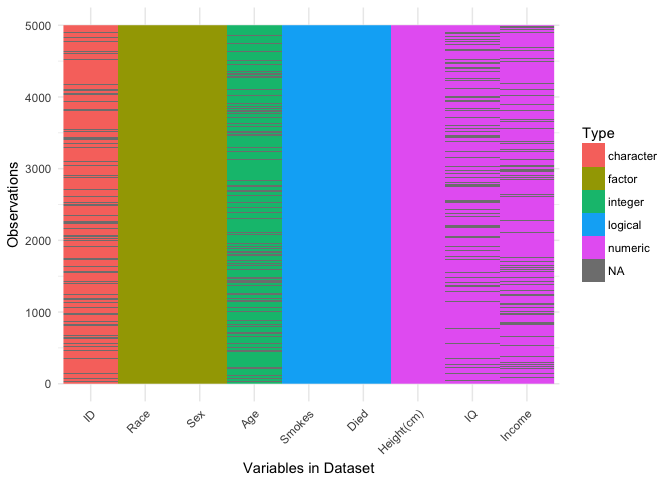
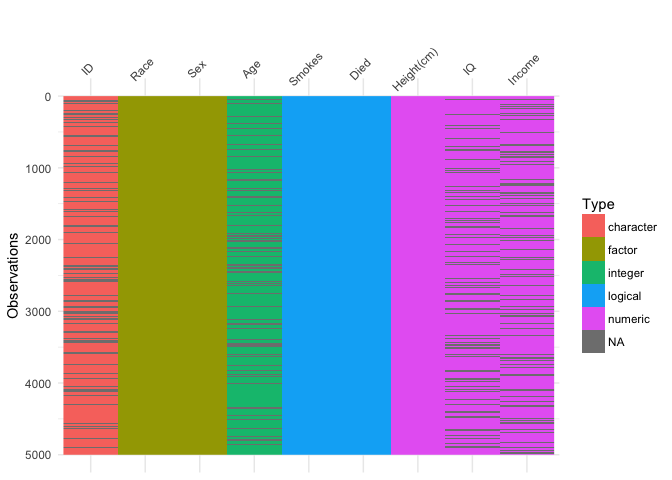
minor changes to paper - add a sentence to vis_dat and vis_miss, and change style slightly to be more appropriate for a journal.

diff --git a/paper/paper.md b/paper/paper.md
@@ -1,32 +1,9 @@
----
-title: 'visdat: Visualising whole data frames'
-tags:
-  - visualisation
-  - R
-  - exporatory data analysis
-authors:
- - name: Nicholas Tierney
-   orcid: 0000-0003-1460-8722
-   affiliation: 1
-affiliations:
- - name: Queensland University of Technology
-   index: 1
-date: 09 January 2017
-bibliography: paper.bib
----
-
 # visdat: Visualising whole data frames
-09 January 2017  
+01 August 2017  
 
 # Summary
 
-As described by Hadley Wickham [@wickham2016], there are 6 phases of data science:
-
-![Process of Data Science](http://r4ds.had.co.nz/diagrams/data-science.png)
-
-You can get insight into your data by modelling, visualising, and transforming, which Wickham describes as "Understanding" or "knowledge generation". There is some overlap here, as in this process it wouldn't be surprising that you might uncover some feature of your dataset that you would need to clean up or change. For example, in analysing some data, you might discover that some strings were indeed factors, or that gender was considered numeric in your regression, warranting you to re-visit the Tidying phase.
-
-In the same way, this process gets applied in the Tidying step of data science. You read in your data, but you then need to look at it to understand what you need to do to make it ready for analysis. A phrase that often arises in this process is "looking at the data". It is helpful to look more closely at what this means. You can look at the first six rows of data, the head of the data:
+Reading in a new dataset means looking at the data to get a sense of what it contains, and potential problems and challenges with the data to get it analysis ready. "Looking at the data" can mean different things. Often times you look at the first six rows of data, the head of the data:
 
 
 ```r
@@ -43,7 +20,7 @@ head(iris)
 ## 6          5.4         3.9          1.7         0.4  setosa
 ```
 
-Another alterantive is `glimpse`, from the `dplyr` package [@dplyr]
+Or you can `glimpse` the data, using the `dplyr` package [@dplyr]
 
 
 ```r
@@ -60,7 +37,7 @@ dplyr::glimpse(iris)
 ## $ Species      <fctr> setosa, setosa, setosa, setosa, setosa, setosa, ...
 ```
 
-This has a better printing method that gives us more information about the data, displaying doubles and a factor. However, we don't always have data like the canonical iris dataset. Let's take a look at some data that might be a bit more typical of "messy" data.
+This shows that there are 150 observations, and 5 variables, which are doubles and a factor, along with some of the values in the data. However, we usually don't have data like the canonical iris dataset. Let's take a look at some data that might be a bit more typical of "messy" data.
 
 
 ```r
@@ -82,42 +59,28 @@ dplyr::glimpse(typical_data)
 ## $ Died       <lgl> TRUE, TRUE, FALSE, TRUE, TRUE, FALSE, FALSE, TRUE, ...
 ```
 
-Looking at this, you might then ask:
+Looking at this, you might then ask: "Isn't it odd that Income is a factor? And Age is a character?". And you might start to wonder what else is different, what else changed? It might be a bit unclear where to go from there. Do you do some exploratory plots of the data? What if the plot looks weird because the data has strange types? What if the data has other strange features? 
 
-> Isn't it odd that Income is a factor? And Age is a character? 
+There is a need for a tool to do preliminary data visualisation, to identify these problems early. The `visdat` package provides this, creating visualisations of an entire dataframe at once. Initially inspired by [`csv-fingerprint`](https://github.com/setosa/csv-fingerprint), `visdat` provides tools to create heatmap-like visualisations of an entire dataframe. `visdat` is an R [@Rcore] package provides 2 main functions `vis_dat` and `vis_miss`.
 
-And you might start to wonder what else is different, what else changed? 
-
-And it might be a bit unclear where to go from there. Do you plot the data? Why does my plot look wierd? What are these other strange features in the data? The `visdat` package provides visualisations of an entire dataframe at once. Initially inspired by [`csv-fingerprint`](https://github.com/setosa/csv-fingerprint), `visdat` provides tools to create heatmap-like visualisations of an entire dataframe. `visdat` is an R [@Rcore] package provides 2 main functions `vis_dat` and `vis_miss`.
-
-`vis_dat()` helps explore the data class structure and missingness:
+`vis_dat()` helps explore the data class structure and missingness, by displaying the class for each variable and the missing data, and presenting the plot in an intuitive way - it reads top down as the data would. The columns are grouped by similar class as well, to put similarly classified data types together.
 
 
 ```r
 vis_dat(typical_data)
 ```
 
-```
-## Warning: attributes are not identical across measure variables; they will
-## be dropped
-```
-
 ![](paper_files/figure-html/load-data-1.png)<!-- -->
 
-And the `vis_miss` function provides a custom plot for missing data.
+`vis_miss()` focuses on just displaying the present and missing data, again reading top down, but also displaying the percent of missing data in each column, and overall.
 
 
 ```r
 vis_miss(typical_data)
 ```
 
-```
-## Warning: attributes are not identical across measure variables; they will
-## be dropped
-```
+![](paper_files/figure-html/vis-miss-1.png)<!-- -->
 
-![](paper_files/figure-html/unnamed-chunk-1-1.png)<!-- -->
-
-These functions provide useful tools to help "get a look at the data", using principled visualisation techniques. The plots are built using ggplot2 [@ggplot2], which provides a consistent and powerful framework for visualisations. This means that users can customise and extend graphics from visdat very easily.
+These functions provide useful tools to help "get a look at the data", using preliminary visualisation techniques. The plots are built using ggplot2 [@ggplot2], which provides a consistent and powerful framework for visualisations. This means that users can customise and extend graphics from visdat very easily.
 
 # References
